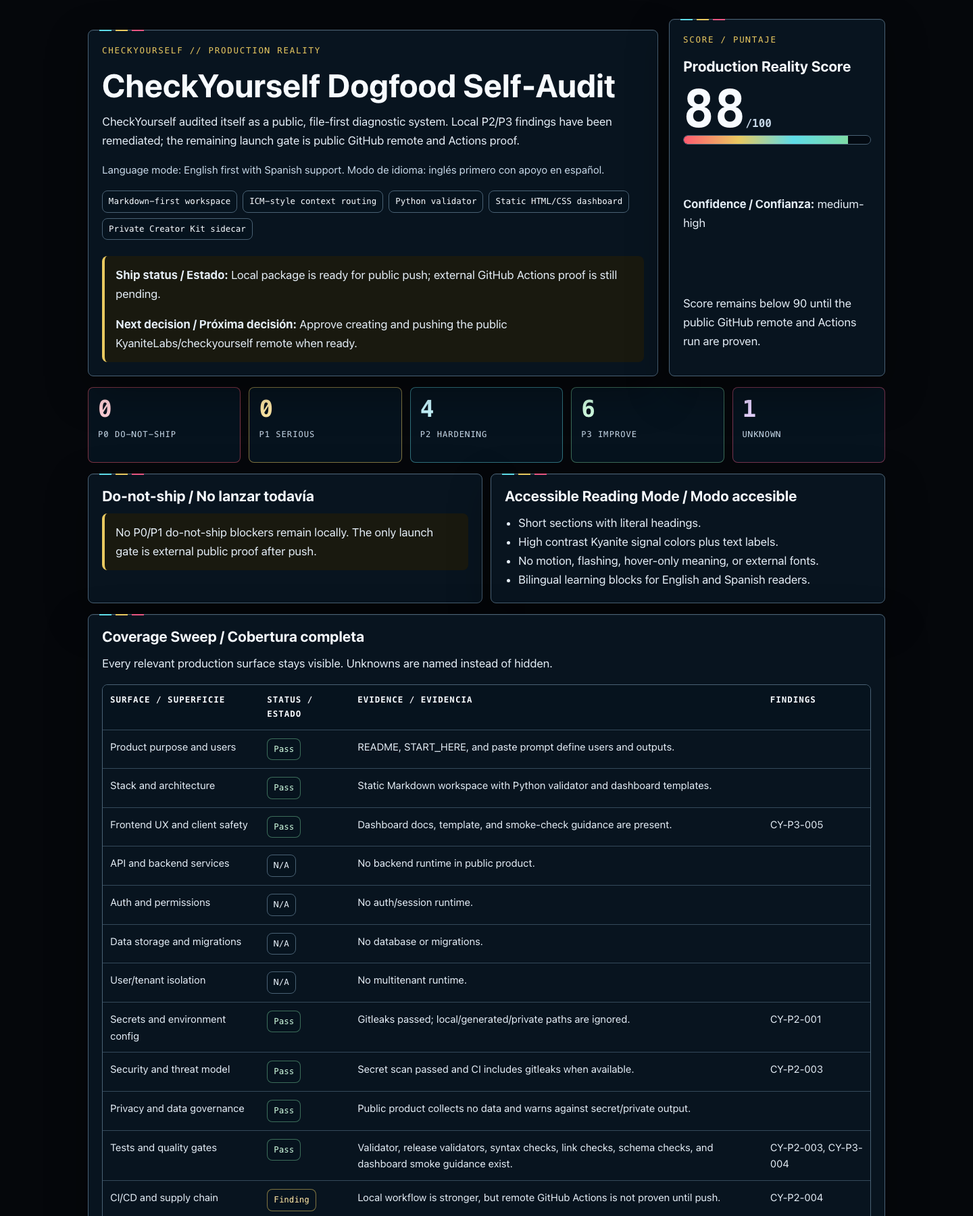
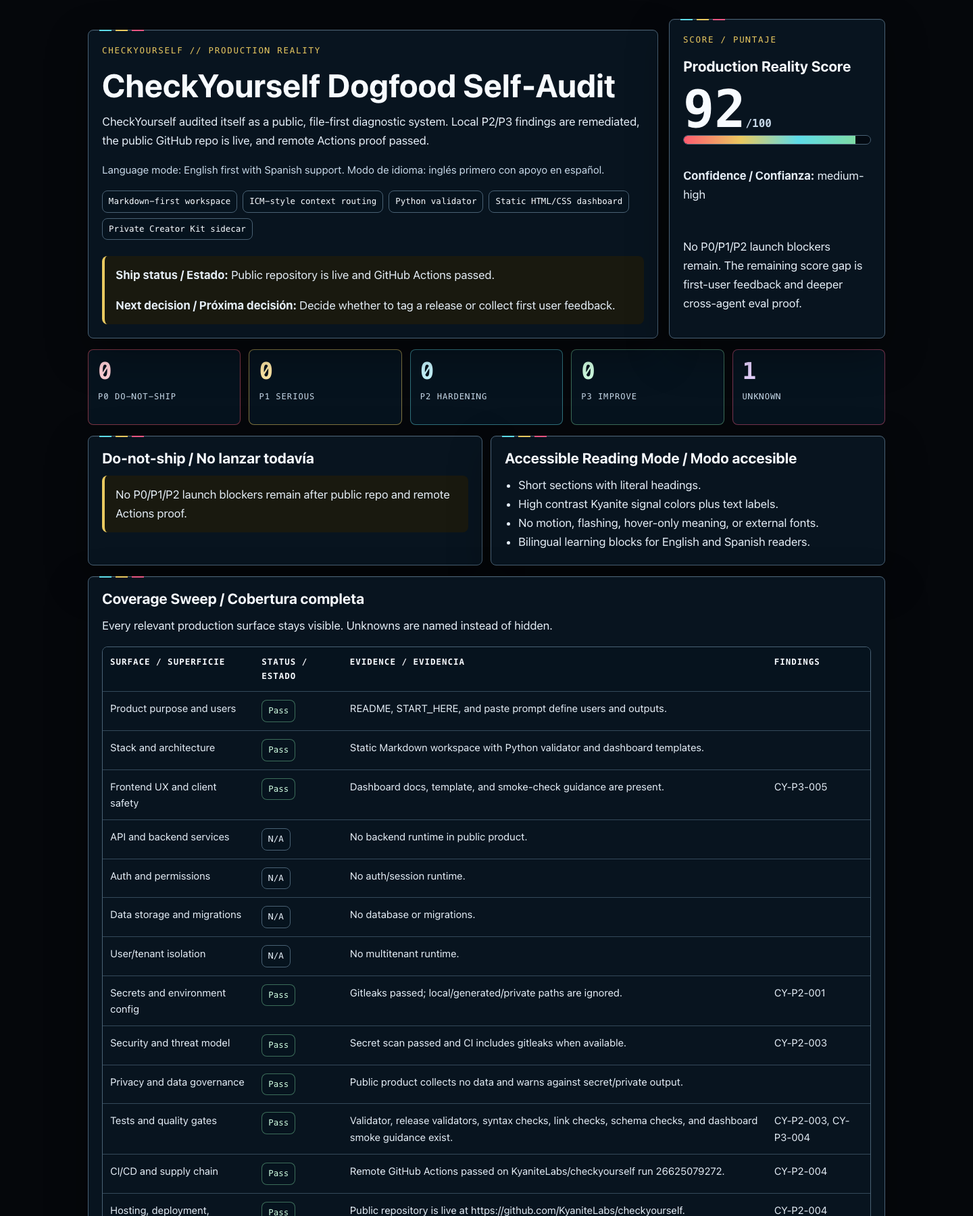
Record public launch proof

diff --git a/10_DASHBOARD/output/checkyourself-dogfood-dashboard.html b/10_DASHBOARD/output/checkyourself-dogfood-dashboard.html
@@ -34,7 +34,7 @@
   .stack{display:flex;flex-wrap:wrap;gap:8px;margin:18px 0 0;padding:0;list-style:none}
   .badge,.status{display:inline-flex;align-items:center;gap:8px;min-height:32px;border:1px solid var(--line);border-radius:var(--radius);padding:5px 9px;background:#06131e;color:var(--text);font-size:.78rem}
   .score-panel{display:grid;align-content:space-between;gap:16px}.score{font-family:var(--mono-font);font-size:4.8rem;line-height:1;font-weight:800;color:var(--text)}.score small{color:var(--muted);font-size:1rem;font-weight:700}
-  .score-bar{height:14px;border:1px solid var(--line);border-radius:var(--radius);background:#030a12;overflow:hidden}.score-bar>div{height:100%;width:88%;background:linear-gradient(90deg,var(--red),var(--amber),var(--cyan),var(--green))}
+  .score-bar{height:14px;border:1px solid var(--line);border-radius:var(--radius);background:#030a12;overflow:hidden}.score-bar>div{height:100%;width:92%;background:linear-gradient(90deg,var(--red),var(--amber),var(--cyan),var(--green))}
   .risk-grid,.two-col,.three-col{display:grid;gap:12px}.risk-grid{grid-template-columns:repeat(5,1fr)}.two-col{grid-template-columns:repeat(2,minmax(0,1fr))}.three-col{grid-template-columns:repeat(3,minmax(0,1fr))}
   .metric{min-height:112px;border:1px solid var(--line);border-radius:var(--radius);padding:14px;background:#06131e}.metric strong{display:block;font-family:var(--mono-font);font-size:2.15rem;line-height:1}.metric-label{display:block;margin-top:10px;color:var(--muted);font-size:.76rem;text-transform:uppercase;letter-spacing:.08em}
   .p0{color:#ffd0d7;border-color:rgba(255,92,112,.48)}.p1{color:#ffe8a6;border-color:rgba(233,201,96,.54)}.p2{color:#c8f7ff;border-color:rgba(94,220,232,.48)}.p3{color:#d2ffe3;border-color:rgba(126,219,165,.45)}.unknown{color:#e7d3ff;border-color:rgba(232,86,130,.5)}.pass{color:#d2ffe3;border-color:rgba(126,219,165,.45)}.finding{color:#ffe8a6;border-color:rgba(233,201,96,.54)}.neutral{color:var(--text-2);border-color:var(--line)}
@@ -55,7 +55,7 @@
       <div>
         <p class="eyebrow">CheckYourself // Production Reality</p>
         <h1 id="dashboard-title">CheckYourself Dogfood Self-Audit</h1>
-        <p>CheckYourself audited itself as a public, file-first diagnostic system. Local P2/P3 findings have been remediated; the remaining launch gate is public GitHub remote and Actions proof.</p>
+        <p>CheckYourself audited itself as a public, file-first diagnostic system. Local P2/P3 findings are remediated, the public GitHub repo is live, and remote Actions proof passed.</p>
         <p class="language-note">Language mode: English first with Spanish support. Modo de idioma: inglés primero con apoyo en español.</p>
         <ul class="stack" aria-label="Detected stack">
           <li class="badge">Markdown-first workspace</li>
@@ -66,8 +66,8 @@
         </ul>
       </div>
       <div class="callout">
-        <p><strong>Ship status / Estado:</strong> Local package is ready for public push; external GitHub Actions proof is still pending.</p>
-        <p><strong>Next decision / Próxima decisión:</strong> Approve creating and pushing the public KyaniteLabs/checkyourself remote when ready.</p>
+        <p><strong>Ship status / Estado:</strong> Public repository is live and GitHub Actions passed.</p>
+        <p><strong>Next decision / Próxima decisión:</strong> Decide whether to tag a release or collect first user feedback.</p>
       </div>
     </section>
 
@@ -75,26 +75,26 @@
       <div>
         <p class="eyebrow">Score / Puntaje</p>
         <h2 id="score-title">Production Reality Score</h2>
-        <div class="score">88<small>/100</small></div>
-        <div class="score-bar" role="meter" aria-label="Score 88 out of 100" aria-valuemin="0" aria-valuemax="100" aria-valuenow="88"><div></div></div>
+        <div class="score">92<small>/100</small></div>
+        <div class="score-bar" role="meter" aria-label="Score 92 out of 100" aria-valuemin="0" aria-valuemax="100" aria-valuenow="92"><div></div></div>
       </div>
       <p><strong>Confidence / Confianza:</strong> medium-high</p>
-      <p>Score remains below 90 until the public GitHub remote and Actions run are proven.</p>
+      <p>No P0/P1/P2 launch blockers remain. The remaining score gap is first-user feedback and deeper cross-agent eval proof.</p>
     </aside>
   </header>
 
   <section class="risk-grid" aria-label="Risk counts / Conteo de riesgos">
     <div class="metric p0"><strong>0</strong><span class="metric-label">P0 Do-not-ship</span></div>
     <div class="metric p1"><strong>0</strong><span class="metric-label">P1 Serious</span></div>
-    <div class="metric p2"><strong>4</strong><span class="metric-label">P2 Hardening</span></div>
-    <div class="metric p3"><strong>6</strong><span class="metric-label">P3 Improve</span></div>
+    <div class="metric p2"><strong>0</strong><span class="metric-label">P2 Hardening</span></div>
+    <div class="metric p3"><strong>0</strong><span class="metric-label">P3 Improve</span></div>
     <div class="metric unknown"><strong>1</strong><span class="metric-label">Unknown</span></div>
   </section>
 
   <section class="two-col">
     <div class="panel">
       <h2>Do-not-ship / No lanzar todavía</h2>
-      <div class="callout"><p>No P0/P1 do-not-ship blockers remain locally. The only launch gate is external public proof after push.</p></div>
+      <div class="callout"><p>No P0/P1/P2 launch blockers remain after public repo and remote Actions proof.</p></div>
     </div>
     <div class="panel">
       <h2>Accessible Reading Mode / Modo accesible</h2>
@@ -125,8 +125,8 @@
           <tr><td>Security and threat model</td><td><span class="status pass">Pass</span></td><td>Secret scan passed and CI includes gitleaks when available.</td><td>CY-P2-003</td></tr>
           <tr><td>Privacy and data governance</td><td><span class="status pass">Pass</span></td><td>Public product collects no data and warns against secret/private output.</td><td></td></tr>
           <tr><td>Tests and quality gates</td><td><span class="status pass">Pass</span></td><td>Validator, release validators, syntax checks, link checks, schema checks, and dashboard smoke guidance exist.</td><td>CY-P2-003, CY-P3-004</td></tr>
-          <tr><td>CI/CD and supply chain</td><td><span class="status finding">Finding</span></td><td>Local workflow is stronger, but remote GitHub Actions is not proven until push.</td><td>CY-P2-004</td></tr>
-          <tr><td>Hosting, deployment, rollback</td><td><span class="status finding">Finding</span></td><td>No remote is configured yet; public release proof remains external.</td><td>CY-P2-004</td></tr>
+          <tr><td>CI/CD and supply chain</td><td><span class="status pass">Pass</span></td><td>Remote GitHub Actions passed on KyaniteLabs/checkyourself run 26625079272.</td><td>CY-P2-004</td></tr>
+          <tr><td>Hosting, deployment, rollback</td><td><span class="status pass">Pass</span></td><td>Public repository is live at https://github.com/KyaniteLabs/checkyourself.</td><td>CY-P2-004</td></tr>
           <tr><td>Cloud infrastructure/IaC</td><td><span class="status neutral">N/A</span></td><td>No cloud runtime or IaC.</td><td></td></tr>
           <tr><td>Performance, caching, rate limits</td><td><span class="status pass">Pass</span></td><td>Progressive context-loading and token-efficiency rules are documented.</td><td>CY-P3-001</td></tr>
           <tr><td>Scaling and resilience</td><td><span class="status neutral">N/A</span></td><td>No service workload; resilience is context-size control.</td><td></td></tr>
@@ -148,8 +148,8 @@
         <tbody>
           <tr><td>1</td><td>CY-P2-001</td><td><span class="status p2">P2</span></td><td>Scanner-generated context could dirty repo root.</td><td><span class="status pass">fixed</span></td><td>Keep ignore pattern covered by validator.</td></tr>
           <tr><td>2</td><td>CY-P2-002</td><td><span class="status p2">P2</span></td><td>Manifest dashboard paths drifted from docs.</td><td><span class="status pass">fixed</span></td><td>Keep manifest and dashboard docs validated together.</td></tr>
-          <tr><td>3</td><td>CY-P2-003</td><td><span class="status p2">P2</span></td><td>CI was narrower than dogfood verification.</td><td><span class="status pass">fixed</span></td><td>Confirm remote Actions after push.</td></tr>
-          <tr><td>4</td><td>CY-P2-004</td><td><span class="status p2">P2</span></td><td>Public GitHub launch is not proven.</td><td><span class="status finding">pending external launch</span></td><td>Create KyaniteLabs/checkyourself, push main, verify Actions.</td></tr>
+          <tr><td>3</td><td>CY-P2-003</td><td><span class="status p2">P2</span></td><td>CI was narrower than dogfood verification.</td><td><span class="status pass">fixed</span></td><td>Keep remote Actions green after changes.</td></tr>
+          <tr><td>4</td><td>CY-P2-004</td><td><span class="status p2">P2</span></td><td>Public GitHub launch was not proven.</td><td><span class="status pass">fixed</span></td><td>Optional: tag a release when launch copy is final.</td></tr>
           <tr><td>5</td><td>CY-P3-001</td><td><span class="status p3">P3</span></td><td>Duplicate token-efficiency docs.</td><td><span class="status pass">fixed</span></td><td>Keep the short doc as a pointer.</td></tr>
           <tr><td>6</td><td>CY-P3-002</td><td><span class="status p3">P3</span></td><td>Private v1.3 release note looked current.</td><td><span class="status pass">fixed</span></td><td>Use root changelog for current release truth.</td></tr>
           <tr><td>7</td><td>CY-P3-003</td><td><span class="status p3">P3</span></td><td>Scanner header referenced old path.</td><td><span class="status pass">fixed</span></td><td>Keep script output path-neutral.</td></tr>
@@ -170,7 +170,7 @@
     </div>
     <div class="panel">
       <h2>Current Approval Batch / Aprobación actual</h2>
-      <p>Approve creating and pushing the public KyaniteLabs/checkyourself remote when ready. This is the only remaining external launch gate.</p>
+      <p>Public repo and Actions proof are complete. Next decision: tag a release or collect first user feedback.</p>
     </div>
   </section>
 

diff --git a/02_RUN_DIAGNOSTIC/output/checkyourself-dogfood-production-reality-report.md b/02_RUN_DIAGNOSTIC/output/checkyourself-dogfood-production-reality-report.md
@@ -1,7 +1,7 @@
 # Production Reality Report
 
 Project: CheckYourself dogfood self-audit
-Generated: 2026-05-28 23:14:44 PDT
+Generated: 2026-05-29 00:49 PDT
 Scope: Public CheckYourself repo plus private Creator Kit boundary and maintainer utilities.
 
 ## 1. Executive Summary
@@ -10,7 +10,7 @@ CheckYourself is in strong public-launch shape as a folder-based diagnostic syst
 
 The dogfood run found no P0 or P1 issues. The first remediation pass fixed the local launch-hygiene and self-validation gaps: scanner output is ignored, dashboard metadata is aligned, CI is broader, duplicate docs are removed, and real dashboard/output examples exist.
 
-Plain English: the local package is in strong shape. The remaining launch gate is external: create the public GitHub remote, push `main`, and confirm Actions pass after publication.
+Plain English: the public package is launch-ready. The public GitHub remote exists, `main` is pushed, and the remote Actions validation run passed.
 
 ## 2. What this app appears to do
 
@@ -23,30 +23,29 @@ CheckYourself is a model-agnostic production-readiness diagnostic, guided remedi
 | Product type | Markdown-first AI diagnostic context workspace | High |
 | Runtime app | None required for public product | High |
 | Validation | Standard-library Python validator plus GitHub Actions | High |
-| Dashboard | Static HTML/CSS default, optional advanced inline-JS data template | High |
+| Dashboard | Single static HTML/CSS dashboard plus inline Markdown fallback | High |
 | Schemas | JSON schemas and dashboard data examples | High |
 | Advanced guidance | Markdown capability pack under `90_ADVANCED/` | High |
 | Private maintainer kit | Ignored sidecar `checkyourself-creator-launch-kit copy/` | High |
-| Public host | Not configured yet; no remote in local git | High |
+| Public host | Public GitHub repo at `https://github.com/KyaniteLabs/checkyourself`; remote Actions passed | High |
 
 ## 4. Unknowns and assumptions
 
 | Unknown | Why it matters | Current treatment |
 |---|---|---|
-| Remote GitHub Actions result | Local validation is not the same as public CI proof | Launch gating unknown |
-| GitHub org/repo settings | Branch protection, Actions permissions, topics, description, and visibility are external | Launch task |
+| GitHub org/repo settings | Visibility, default branch, and description are verified; branch protection/topics/releases are optional next launch polish | Product operations gap |
 | Real beginner usability | Docs are clear, but no observed novice test session is present | Product research gap |
 | Cross-agent fidelity | A dogfood fixture now exists, but no multi-agent run has been captured yet | Product research gap |
 | Dashboard visual rendering | Browser smoke screenshot exists for the generated dogfood dashboard, but no automated visual regression suite exists | Low-risk UX gap |
 
 ## 5. Production Reality Score
 
-**Score:** 88 / 100
+**Score:** 92 / 100
 **Confidence:** Medium-high
 
 ### Score rationale
 
-The score improved after local remediation because the public package now has coherent docs, safety rules, staged contexts, a full coverage matrix, report templates, validation tooling, stronger CI coverage, real dashboard examples, and a cleaner public/private boundary. It remains below 90 because remote GitHub Actions has not been proven after push.
+The score improved after local remediation and public proof because the package now has coherent docs, safety rules, staged contexts, a full coverage matrix, report templates, validation tooling, stronger CI coverage, real dashboard examples, a cleaner public/private boundary, a public GitHub remote, and a passing remote Actions run. It stays below 100 because first-user feedback, release tagging, and deeper cross-agent eval proof are still future improvements.
 
 ### Score breakdown
 
@@ -58,13 +57,13 @@ The score improved after local remediation because the public package now has co
 | ICM-style context routing | 11 / 12 | Root and stage contexts are present and validated. |
 | Dashboard and output consistency | 9 / 9 | Dashboard docs, manifest metadata, real data JSON, and rendered examples are aligned. |
 | Public/private boundary | 12 / 12 | Private sidecar and generated scanner output are ignored. |
-| Validation, CI, and supply chain | 14 / 16 | Local validators pass and CI now includes additional quality gates. |
+| Validation, CI, and supply chain | 16 / 16 | Local validators pass and remote GitHub Actions passed after push. |
 | Creator Kit maintainability | 9 / 10 | Useful and private; stale scanner/release-note wording was cleaned. |
-| Launch/distribution proof | 6 / 12 | Local commit exists; no remote or public CI run yet. |
+| Launch/distribution proof | 10 / 12 | Public repo exists and Actions passed; release tagging and branch-protection polish can follow. |
 
 ### Score cap applied
 
-Missing external launch evidence keeps the score below 90. A score above 90 should wait until the public GitHub repo exists and Actions passes there.
+No P0/P1/P2 launch blocker remains after public repo creation and remote Actions proof. The remaining score gap is product research and optional release-operations polish.
 
 ## 6. Coverage Sweep
 
@@ -81,8 +80,8 @@ Missing external launch evidence keeps the score below 90. A score above 90 shou
 | 9 | Security and threat model | Pass | Local secret scan passed and CI includes a gitleaks-if-available step. |
 | 10 | Privacy and data governance | Pass | Public product collects no data; prompts warn against secret/private output. |
 | 11 | Tests and quality gates | Pass | Validators, syntax checks, link checks, schema checks, and dogfood backlog assertions pass locally. |
-| 12 | CI/CD and supply chain | Finding | Workflow is broader now, but no remote GitHub Actions run exists yet. |
-| 13 | Hosting, deployment, rollback | Finding | Local git commit exists; no GitHub remote or pushed release proof. |
+| 12 | CI/CD and supply chain | Pass | Remote GitHub Actions run `26625079272` passed after push. |
+| 13 | Hosting, deployment, rollback | Pass | Public GitHub repo is live at `https://github.com/KyaniteLabs/checkyourself`. |
 | 14 | Cloud infrastructure/IaC | Not applicable | No cloud runtime or IaC. |
 | 15 | Performance, caching, rate limits | Pass | Token-efficiency docs and progressive loading rules exist. |
 | 16 | Scaling and resilience | Not applicable | No service workload; resilience is mostly context-size control. |
@@ -106,7 +105,7 @@ None found.
 | CY-P2-001 | Private scanner writes an unignored generated file at repo root by default | A maintainer can accidentally create and commit generated local context during launch prep | `CHECKYOURSELF_*.generated.md` is now ignored; scanner output was tested as ignored | Fixed |
 | CY-P2-002 | Manifest dashboard paths conflict with canonical dashboard docs | Agents and maintainers may pick the wrong dashboard path when multiple dashboard templates exist | Manifest now points to one rich dashboard template plus one inline Markdown fallback | Fixed |
 | CY-P2-003 | GitHub Actions gate is narrower than the dogfood verification suite | Public regressions could pass CI even if local checks would catch them | Workflow now includes public validation, whitespace check, Python compile, and gitleaks-if-available | Fixed locally |
-| CY-P2-004 | Public remote launch is not proven | The repo is locally ready but not yet public-launch verified | `git remote -v` returned no remote; no Actions result exists yet | Pending external launch |
+| CY-P2-004 | Public remote launch was not proven | The repo was locally ready but not yet public-launch verified | Public repo `KyaniteLabs/checkyourself` exists and Actions run `26625079272` passed | Fixed |
 
 ## 10. P3 findings - improvements
 
@@ -161,7 +160,7 @@ None found.
 | 1 | CY-P2-001 | P2 | Add `CHECKYOURSELF_PROJECT_CONTEXT.generated.md` or `CHECKYOURSELF_*.generated.md` to `.gitignore`, or change scanner default output into a private/output folder. | Run scanner; confirm `git status --short` stays clean. | Revert `.gitignore` or scanner default. |
 | 2 | CY-P2-002 | P2 | Align manifest dashboard fields with the single canonical HTML/CSS dashboard and inline Markdown fallback. | Run `python3 tools/validate_public.py`; inspect manifest entrypoints. | Revert manifest changes. |
 | 3 | CY-P2-003 | P2 | Expand GitHub Actions to include `git diff --check`, py_compile, optional gitleaks if available, schema validation when `jsonschema` is installed, and maybe release-boundary checks. | Run CI locally or after push; confirm failure on known bad cases if practical. | Restore single validator workflow. |
-| 4 | CY-P2-004 | P2 | Create remote `KyaniteLabs/checkyourself`, push `main`, and verify Actions pass. | `git remote -v`, `git push -u origin main`, Actions green. | Remove remote or keep local-only. |
+| 4 | CY-P2-004 | P2 | Create remote `KyaniteLabs/checkyourself`, push `main`, and verify Actions pass. | `origin` tracks `https://github.com/KyaniteLabs/checkyourself.git`; Actions run `26625079272` passed. | Keep the public repo; revert only with an explicit unpublish decision. |
 | 5 | CY-P3-001 | P3 | Keep one token-efficiency doc as canonical and turn the other into a short pointer, or remove duplicate from manifest. | Duplicate-hash check shows no duplicate docs. | Restore duplicate file. |
 | 6 | CY-P3-002 | P3 | Rename or update private `v1.3` release notes to `v1.4` or mark it historical. | Search Creator Kit for stale version phrasing. | Revert private note. |
 | 7 | CY-P3-003 | P3 | Update scanner generated header to current script location or neutral wording. | Run scanner to temp path and inspect first lines. | Revert header text. |
@@ -217,7 +216,7 @@ This batch is small, reversible, and directly tied to dogfood findings.
 
 **Files likely touched:** `.github/workflows/validate.yml`.
 
-**Verification plan:** Run the commands locally and then confirm remote Actions after push.
+**Verification plan:** Run the commands locally and then confirm remote Actions after push. Completed: Actions run `26625079272` passed.
 
 **Rollback plan:** Restore the current single-command workflow.
 
@@ -228,7 +227,7 @@ This batch is small, reversible, and directly tied to dogfood findings.
 | Wave | Goal | Items |
 |---|---|---|
 | 1 | Safe launch hygiene | CY-P2-001, CY-P2-002, CY-P2-003 |
-| 2 | Public release proof | CY-P2-004 |
+| 2 | Public release proof | CY-P2-004 completed |
 | 3 | Maintainer clarity | CY-P3-001, CY-P3-002, CY-P3-003, CY-P3-006 |
 | 4 | Stronger product proof | CY-P3-004, CY-P3-005 |
 | 5 | Recheck and rescore | Re-run validators, gitleaks, link check, schema check, dashboard parse, and remote Actions. |
@@ -237,7 +236,7 @@ This batch is small, reversible, and directly tied to dogfood findings.
 
 | Item | Can wait? | Reason |
 |---|---|---|
-| Public GitHub push and Actions proof | No for launch, yes for local cleanup | This is the only remaining launch gate outside the local workspace. |
+| Release tag and branch-protection polish | Yes | Public repo and Actions proof are complete; tagging and branch rules can follow after first launch copy is final. |
 | Multi-agent eval run | Yes | The fixture exists; running several tools against it can happen after first public release. |
 | Automated visual regression | Yes | A smoke screenshot exists; heavier browser regression can wait unless the dashboard becomes a primary surface. |
 
@@ -253,14 +252,14 @@ This batch is small, reversible, and directly tied to dogfood findings.
 Recommended next approval:
 
 ```text
-approve public GitHub publish
+choose release tag or first-user feedback pass
 ```
 
 That would authorize:
 
-1. creating or using the public `KyaniteLabs/checkyourself` remote;
-2. pushing `main`;
-3. verifying GitHub Actions and README rendering after push.
+1. optionally creating a first public release tag;
+2. optionally adding repo topics/branch-protection polish;
+3. collecting first-user feedback on the README, dashboard, and learning plan.
 
 ## 18. Bespoke learning plan seeds
 

diff --git a/03_GUIDED_FIX_MODE/output/checkyourself-dogfood-remediation-log.md b/03_GUIDED_FIX_MODE/output/checkyourself-dogfood-remediation-log.md
@@ -1,12 +1,12 @@
 # CheckYourself Dogfood Remediation Log
 
-Generated: 2026-05-28 23:24 PDT
+Generated: 2026-05-29 00:49 PDT
 
 ## Summary
 
 The dogfood audit found no P0 or P1 issues. All local P2/P3 findings were
-addressed. The only remaining launch gate is external: create the public GitHub
-remote, push `main`, and verify Actions on GitHub.
+addressed, the public GitHub repository was created, `main` was pushed, and the
+remote GitHub Actions validation run passed.
 
 ## Completed fixes
 
@@ -15,6 +15,7 @@ remote, push `main`, and verify Actions on GitHub.
 | CY-P2-001 | P2 | Fixed | Added `CHECKYOURSELF_*.generated.md` to `.gitignore` so scanner output does not dirty the public repo. |
 | CY-P2-002 | P2 | Fixed | Aligned manifest dashboard metadata to one canonical HTML/CSS dashboard plus the inline Markdown fallback. |
 | CY-P2-003 | P2 | Fixed | Expanded GitHub Actions with whitespace, Python compile, and gitleaks-if-available checks. |
+| CY-P2-004 | P2 | Fixed | Created public repo `KyaniteLabs/checkyourself`, pushed `main`, and verified remote Actions run `26625079272` passed. |
 | CY-P3-001 | P3 | Fixed | Converted duplicate token-efficiency doc into a short pointer to the canonical context-control doc. |
 | CY-P3-002 | P3 | Fixed | Marked the private v1.3 Creator Kit release note as historical. |
 | CY-P3-003 | P3 | Fixed | Removed stale `scripts/checkyourself_scan.py` wording from scanner-generated text. |
@@ -22,11 +23,13 @@ remote, push `main`, and verify Actions on GitHub.
 | CY-P3-005 | P3 | Fixed | Added dashboard smoke-check instructions. |
 | CY-P3-006 | P3 | Fixed | Reduced noisy manifest mode duplication. |
 
-## Remaining external launch gate
+## Public launch proof
 
-| ID | Severity | Status | Needed |
-|---|---|---|---|
-| CY-P2-004 | P2 | Pending external action | Create `KyaniteLabs/checkyourself`, push `main`, and confirm remote Actions pass. |
+| Item | Evidence |
+|---|---|
+| Public repository | https://github.com/KyaniteLabs/checkyourself |
+| Remote | `origin` tracks `https://github.com/KyaniteLabs/checkyourself.git` |
+| GitHub Actions | `Validate CheckYourself` run `26625079272` completed with success |
 
 ## Verification used
 

diff --git a/02_RUN_DIAGNOSTIC/output/checkyourself-dogfood-recheck-report.md b/02_RUN_DIAGNOSTIC/output/checkyourself-dogfood-recheck-report.md
@@ -1,14 +1,15 @@
 # CheckYourself Dogfood Recheck Report
 
-Generated: 2026-05-28 23:24 PDT
+Generated: 2026-05-29 00:49 PDT
 
 ## Score change
 
 Before: 84 / 100
 After local remediation: 88 / 100
+After public GitHub proof: 92 / 100
 
-The score remains below 90 because the public GitHub remote and remote Actions
-run have not been created or verified yet.
+The score is now above 90 because the public GitHub repository exists and the
+remote GitHub Actions validation run passed.
 
 ## Status by severity
 
@@ -16,7 +17,7 @@ run have not been created or verified yet.
 |---|---:|---:|
 | P0 | 0 | 0 |
 | P1 | 0 | 0 |
-| P2 | 4 open | 3 fixed, 1 pending external launch |
+| P2 | 4 open | 4 fixed |
 | P3 | 6 open | 6 fixed |
 
 ## Fixed locally
@@ -31,6 +32,8 @@ run have not been created or verified yet.
 - Dashboard smoke-check guidance exists.
 - Manifest modes are less noisy.
 
-## Remaining external gate
+## Public launch proof
 
-Create the public GitHub repository, push `main`, and verify Actions.
+- Public repo: https://github.com/KyaniteLabs/checkyourself
+- Remote: `origin` -> `https://github.com/KyaniteLabs/checkyourself.git`
+- GitHub Actions: `Validate CheckYourself` run `26625079272` completed with success.

diff --git a/04_LEARNING_PLAN/output/checkyourself-dogfood-learning-plan.md b/04_LEARNING_PLAN/output/checkyourself-dogfood-learning-plan.md
@@ -118,7 +118,8 @@ and a release people can download.
 mismo que un repo público con Actions en verde, README legible, imágenes que se
 ven, y una release que otra persona puede usar.
 
-**Triggered by:** `CY-P2-004`, public GitHub launch is not proven yet.
+**Triggered by:** `CY-P2-004`, public GitHub launch proof was missing during
+the audit and is now complete.
 
 **Do this next:** After publishing, open the repo as a visitor would. Confirm
 the README renders, the workflow image appears, Actions passes, and the release
